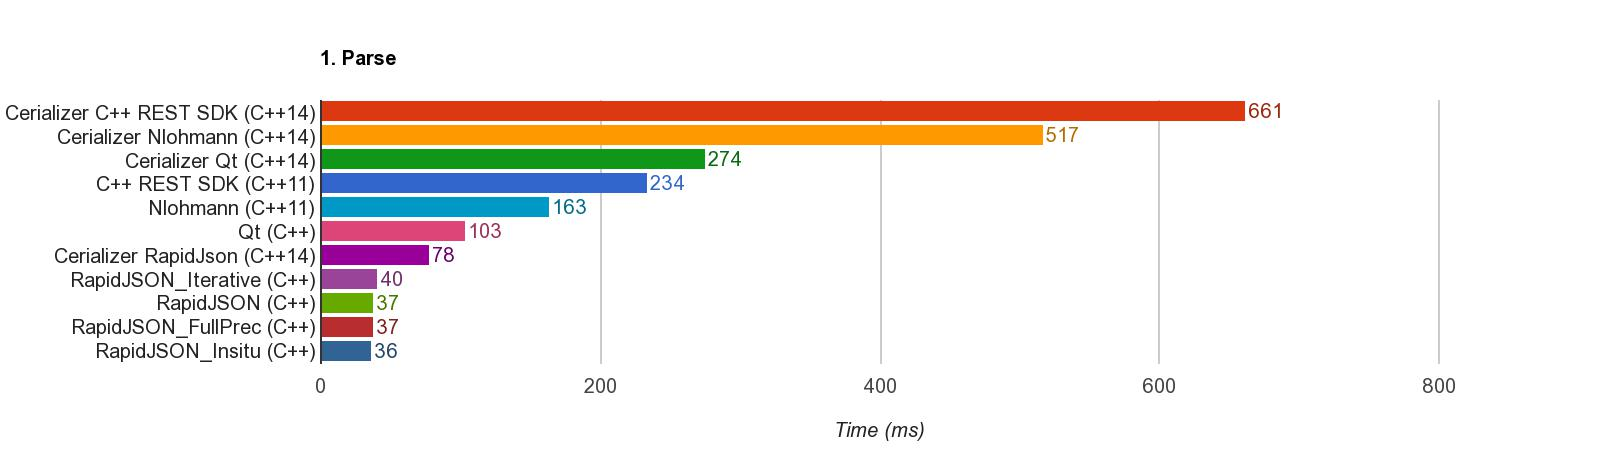
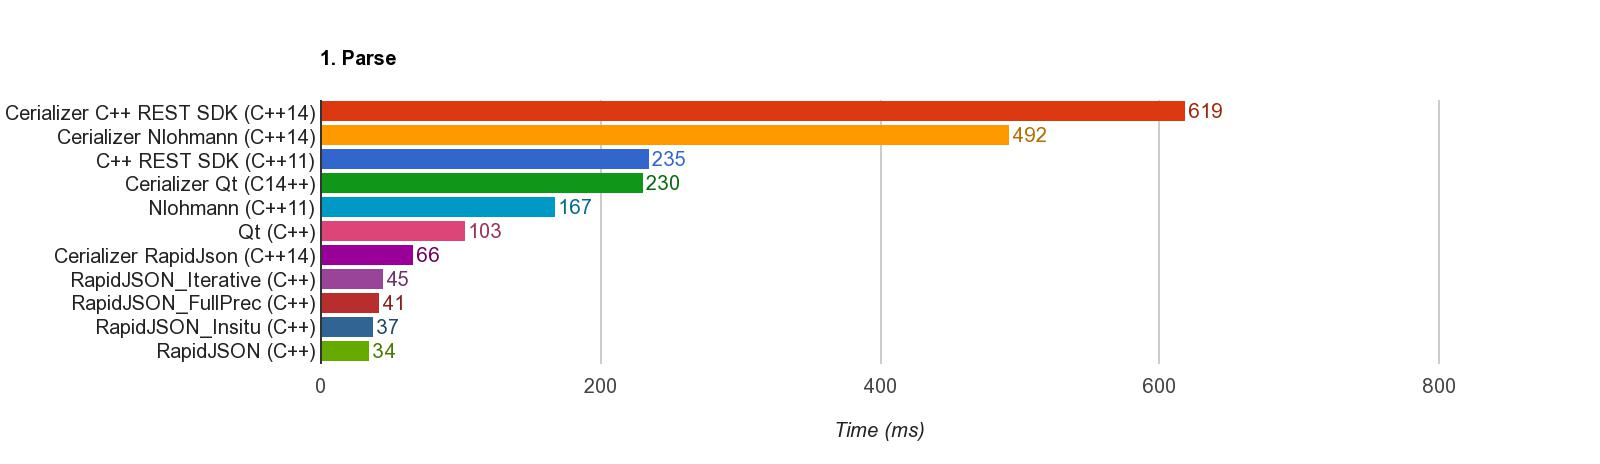
Update benchmarks

diff --git a/sample/performance_Corei7-8750H@2.20GHz_win32_vc2017.html b/sample/performance_Corei7-8750H@2.20GHz_win32_vc2017.html
@@ -413,92 +413,92 @@ body { padding-top: 70px; }
 <h2>Source CSV</h2>
 <textarea id="textInput" class="form-control" rows="5" readonly>
 Type,Library,Filename,Time (ms),Memory (byte),MemoryPeak (byte),AllocCount,FileSize (byte)
-1. Parse,Cerializer C++ REST SDK (C++14),big.json,53.205200,534860,534896,53132,0
-1. Parse,Cerializer C++ REST SDK (C++14),bigger.json,608.280900,5348736,5787240,531322,0
-2. Stringify,Cerializer C++ REST SDK (C++14),big.json,48.162400,1201663,2250274,82848,0
-2. Stringify,Cerializer C++ REST SDK (C++14),bigger.json,552.694400,12016111,20404754,828321,0
-1. Parse,Cerializer Nlohmann (C++14),big.json,39.343800,534860,3098104,253114,0
-1. Parse,Cerializer Nlohmann (C++14),bigger.json,477.169500,5348736,32973968,3082874,0
-2. Stringify,Cerializer Nlohmann (C++14),big.json,45.349800,652543,4110218,250550,0
-2. Stringify,Cerializer Nlohmann (C++14),bigger.json,514.564300,6524911,39004818,3057073,0
-1. Parse,Cerializer Qt (C++14),big.json,24.362600,534860,534896,18812,0
-1. Parse,Cerializer Qt (C++14),bigger.json,249.946600,5348736,5787240,188122,0
-2. Stringify,Cerializer Qt (C++14),big.json,37.901900,8,82088,14191,0
-2. Stringify,Cerializer Qt (C++14),bigger.json,390.636100,8,82088,141901,0
-1. Parse,Cerializer RapidJson (C++14),big.json,6.592700,534860,1845878,19171,0
-1. Parse,Cerializer RapidJson (C++14),bigger.json,71.002700,5348736,18634670,191627,0
-2. Stringify,Cerializer RapidJson (C++14),big.json,6.084900,1566319,3561318,14218,0
-2. Stringify,Cerializer RapidJson (C++14),bigger.json,72.817600,17777119,39596590,141934,0
-1. Parse,C++ REST SDK (C++11),big.json,19.859000,8,8,1,0
-1. Parse,C++ REST SDK (C++11),bigger.json,213.934300,8,8,1,0
-2. Stringify,C++ REST SDK (C++11),big.json,6.199100,657823,1706434,18,0
-2. Stringify,C++ REST SDK (C++11),bigger.json,70.928200,6577711,14966354,21,0
-4. Statistics,C++ REST SDK (C++11),big.json,0.269700,0,0,0,0
-4. Statistics,C++ REST SDK (C++11),bigger.json,5.194100,0,0,0,0
-1. Parse,Nlohmann (C++11),big.json,14.147300,2477728,2477728,70983,0
-1. Parse,Nlohmann (C++11),bigger.json,149.258200,24777688,24777688,709833,0
-2. Stringify,Nlohmann (C++11),big.json,16.786800,652543,1701154,648,0
-2. Stringify,Nlohmann (C++11),bigger.json,173.712600,6524911,14913554,6321,0
-3. Prettify,Nlohmann (C++11),big.json,21.683300,1566319,3663506,36949,0
-3. Prettify,Nlohmann (C++11),bigger.json,243.479700,17777119,51331586,507923,0
-4. Statistics,Nlohmann (C++11),big.json,1.003300,0,32,630,0
-4. Statistics,Nlohmann (C++11),bigger.json,13.208000,0,32,6300,0
-1. Parse,Qt (C++),big.json,8.915600,8,8,1,0
-1. Parse,Qt (C++),bigger.json,93.983800,8,8,1,0
-2. Stringify,Qt (C++),big.json,24.587800,8,8,1,0
-2. Stringify,Qt (C++),bigger.json,250.031300,8,8,1,0
-3. Prettify,Qt (C++),big.json,26.676600,8,8,1,0
-3. Prettify,Qt (C++),bigger.json,278.995900,8,8,1,0
-4. Statistics,Qt (C++),big.json,4.110200,0,0,0,0
-4. Statistics,Qt (C++),bigger.json,42.903300,0,0,0,0
-1. Parse,RapidJSON_FullPrec (C++),big.json,3.263200,1311054,1314767,30,0
-1. Parse,RapidJSON_FullPrec (C++),bigger.json,33.468600,12847502,12851215,206,0
-2. Stringify,RapidJSON_FullPrec (C++),big.json,1.939400,851380,851637,25,0
-2. Stringify,RapidJSON_FullPrec (C++),bigger.json,24.334300,9697457,9697714,31,0
-3. Prettify,RapidJSON_FullPrec (C++),big.json,3.575600,1915570,1915827,27,0
-3. Prettify,RapidJSON_FullPrec (C++),bigger.json,45.619700,21819242,21819499,33,0
-4. Statistics,RapidJSON_FullPrec (C++),big.json,0.178900,0,0,0,0
-4. Statistics,RapidJSON_FullPrec (C++),bigger.json,2.132600,0,0,0,0
-5. Sax Round-trip,RapidJSON_FullPrec (C++),big.json,4.639800,851380,851894,27,0
-5. Sax Round-trip,RapidJSON_FullPrec (C++),bigger.json,52.159400,9697457,9697971,33,0
-6. SaxStatistics,RapidJSON_FullPrec (C++),big.json,2.661200,0,257,2,0
-6. SaxStatistics,RapidJSON_FullPrec (C++),bigger.json,29.968200,0,257,2,0
-1. Parse,RapidJSON_Insitu (C++),big.json,3.117000,2799068,2802524,27,0
-1. Parse,RapidJSON_Insitu (C++),bigger.json,32.712800,29973303,29976759,187,0
-2. Stringify,RapidJSON_Insitu (C++),big.json,1.937300,851380,851637,25,0
-2. Stringify,RapidJSON_Insitu (C++),bigger.json,24.638900,9697457,9697714,31,0
-3. Prettify,RapidJSON_Insitu (C++),big.json,3.722500,1915570,1915827,27,0
-3. Prettify,RapidJSON_Insitu (C++),bigger.json,45.703600,21819242,21819499,33,0
-4. Statistics,RapidJSON_Insitu (C++),big.json,0.181900,0,0,0,0
-4. Statistics,RapidJSON_Insitu (C++),bigger.json,2.061800,0,0,0,0
-5. Sax Round-trip,RapidJSON_Insitu (C++),big.json,4.768200,851380,2470767,27,0
-5. Sax Round-trip,RapidJSON_Insitu (C++),bigger.json,54.235400,9697457,28003399,33,0
-6. SaxStatistics,RapidJSON_Insitu (C++),big.json,2.887200,0,1619130,2,0
-6. SaxStatistics,RapidJSON_Insitu (C++),bigger.json,31.872100,0,18305685,2,0
-1. Parse,RapidJSON_Iterative (C++),big.json,3.355200,1311054,1314767,30,0
-1. Parse,RapidJSON_Iterative (C++),bigger.json,36.557300,12847502,12851215,206,0
-2. Stringify,RapidJSON_Iterative (C++),big.json,1.881200,851380,851637,25,0
-2. Stringify,RapidJSON_Iterative (C++),bigger.json,24.238200,9697457,9697714,31,0
-3. Prettify,RapidJSON_Iterative (C++),big.json,3.657400,1915570,1915827,27,0
-3. Prettify,RapidJSON_Iterative (C++),bigger.json,45.626500,21819242,21819499,33,0
-4. Statistics,RapidJSON_Iterative (C++),big.json,0.174000,0,0,0,0
-4. Statistics,RapidJSON_Iterative (C++),bigger.json,2.173700,0,0,0,0
-5. Sax Round-trip,RapidJSON_Iterative (C++),big.json,4.895300,851380,851894,27,0
-5. Sax Round-trip,RapidJSON_Iterative (C++),bigger.json,55.433400,9697457,9697971,33,0
-6. SaxStatistics,RapidJSON_Iterative (C++),big.json,3.060800,0,257,2,0
-6. SaxStatistics,RapidJSON_Iterative (C++),bigger.json,33.437400,0,257,2,0
-1. Parse,RapidJSON (C++),big.json,3.139400,1311054,1314767,30,0
-1. Parse,RapidJSON (C++),bigger.json,34.116000,12847502,12851215,206,0
-2. Stringify,RapidJSON (C++),big.json,1.928400,851380,851637,25,0
-2. Stringify,RapidJSON (C++),bigger.json,24.341800,9697457,9697714,31,0
-3. Prettify,RapidJSON (C++),big.json,3.639000,1915570,1915827,27,0
-3. Prettify,RapidJSON (C++),bigger.json,45.341000,21819242,21819499,33,0
-4. Statistics,RapidJSON (C++),big.json,0.174800,0,0,0,0
-4. Statistics,RapidJSON (C++),bigger.json,2.220000,0,0,0,0
-5. Sax Round-trip,RapidJSON (C++),big.json,4.368300,851380,851894,27,0
-5. Sax Round-trip,RapidJSON (C++),bigger.json,50.037000,9697457,9697971,33,0
-6. SaxStatistics,RapidJSON (C++),big.json,2.471100,0,257,2,0
-6. SaxStatistics,RapidJSON (C++),bigger.json,26.584200,0,257,2,0
+1. Parse,Cerializer C++ REST SDK (C++14),big.json,48.615100,534860,534896,35972,0
+1. Parse,Cerializer C++ REST SDK (C++14),bigger.json,569.991500,5348736,5787240,359722,0
+2. Stringify,Cerializer C++ REST SDK (C++14),big.json,47.104900,1201663,2250274,82848,0
+2. Stringify,Cerializer C++ REST SDK (C++14),bigger.json,540.292700,12016111,20404754,828321,0
+1. Parse,Cerializer Nlohmann (C++14),big.json,37.188300,534860,3098104,252484,0
+1. Parse,Cerializer Nlohmann (C++14),bigger.json,454.575000,5348736,32973968,3076574,0
+2. Stringify,Cerializer Nlohmann (C++14),big.json,45.198900,652543,4110218,250550,0
+2. Stringify,Cerializer Nlohmann (C++14),bigger.json,519.948400,6524911,39004818,3057073,0
+1. Parse,Cerializer Qt (C14++),big.json,20.452900,534860,534896,18812,0
+1. Parse,Cerializer Qt (C14++),bigger.json,209.876400,5348736,5787240,188122,0
+2. Stringify,Cerializer Qt (C14++),big.json,37.359300,8,82088,14191,0
+2. Stringify,Cerializer Qt (C14++),bigger.json,383.143000,8,82088,141901,0
+1. Parse,Cerializer RapidJson (C++14),big.json,5.617900,534860,1845878,19171,0
+1. Parse,Cerializer RapidJson (C++14),bigger.json,60.491700,5348736,18634670,191627,0
+2. Stringify,Cerializer RapidJson (C++14),big.json,6.087100,1566319,3561318,14218,0
+2. Stringify,Cerializer RapidJson (C++14),bigger.json,73.852800,17777119,39596590,141934,0
+1. Parse,C++ REST SDK (C++11),big.json,19.996200,8,8,1,0
+1. Parse,C++ REST SDK (C++11),bigger.json,215.017400,8,8,1,0
+2. Stringify,C++ REST SDK (C++11),big.json,6.112500,657823,1706434,18,0
+2. Stringify,C++ REST SDK (C++11),bigger.json,71.601000,6577711,14966354,21,0
+4. Statistics,C++ REST SDK (C++11),big.json,0.268800,0,0,0,0
+4. Statistics,C++ REST SDK (C++11),bigger.json,7.984500,0,0,0,0
+1. Parse,Nlohmann (C++11),big.json,14.656700,2477728,2477728,70983,0
+1. Parse,Nlohmann (C++11),bigger.json,152.449100,24777688,24777688,709833,0
+2. Stringify,Nlohmann (C++11),big.json,17.176800,652543,1701154,648,0
+2. Stringify,Nlohmann (C++11),bigger.json,177.763000,6524911,14913554,6321,0
+3. Prettify,Nlohmann (C++11),big.json,22.423500,1566319,3663506,36949,0
+3. Prettify,Nlohmann (C++11),bigger.json,251.675000,17777119,51331586,507923,0
+4. Statistics,Nlohmann (C++11),big.json,1.011600,0,32,630,0
+4. Statistics,Nlohmann (C++11),bigger.json,13.511400,0,32,6300,0
+1. Parse,Qt (C++),big.json,8.973500,8,8,1,0
+1. Parse,Qt (C++),bigger.json,94.231300,8,8,1,0
+2. Stringify,Qt (C++),big.json,24.509600,8,8,1,0
+2. Stringify,Qt (C++),bigger.json,246.114200,8,8,1,0
+3. Prettify,Qt (C++),big.json,26.668100,8,8,1,0
+3. Prettify,Qt (C++),bigger.json,274.404300,8,8,1,0
+4. Statistics,Qt (C++),big.json,4.058100,0,0,0,0
+4. Statistics,Qt (C++),bigger.json,42.871700,0,0,0,0
+1. Parse,RapidJSON_FullPrec (C++),big.json,3.547400,1311054,1314767,30,0
+1. Parse,RapidJSON_FullPrec (C++),bigger.json,37.823400,12847502,12851215,206,0
+2. Stringify,RapidJSON_FullPrec (C++),big.json,1.940300,851380,851637,25,0
+2. Stringify,RapidJSON_FullPrec (C++),bigger.json,24.645600,9697457,9697714,31,0
+3. Prettify,RapidJSON_FullPrec (C++),big.json,3.648900,1915570,1915827,27,0
+3. Prettify,RapidJSON_FullPrec (C++),bigger.json,45.791300,21819242,21819499,33,0
+4. Statistics,RapidJSON_FullPrec (C++),big.json,0.179300,0,0,0,0
+4. Statistics,RapidJSON_FullPrec (C++),bigger.json,3.661800,0,0,0,0
+5. Sax Round-trip,RapidJSON_FullPrec (C++),big.json,4.971900,851380,851894,27,0
+5. Sax Round-trip,RapidJSON_FullPrec (C++),bigger.json,57.008600,9697457,9697971,33,0
+6. SaxStatistics,RapidJSON_FullPrec (C++),big.json,2.956100,0,257,2,0
+6. SaxStatistics,RapidJSON_FullPrec (C++),bigger.json,31.783900,0,257,2,0
+1. Parse,RapidJSON_Insitu (C++),big.json,3.206200,2799068,2802524,27,0
+1. Parse,RapidJSON_Insitu (C++),bigger.json,33.344000,29973303,29976759,187,0
+2. Stringify,RapidJSON_Insitu (C++),big.json,1.965000,851380,851637,25,0
+2. Stringify,RapidJSON_Insitu (C++),bigger.json,24.832900,9697457,9697714,31,0
+3. Prettify,RapidJSON_Insitu (C++),big.json,3.707900,1915570,1915827,27,0
+3. Prettify,RapidJSON_Insitu (C++),bigger.json,46.025600,21819242,21819499,33,0
+4. Statistics,RapidJSON_Insitu (C++),big.json,0.181400,0,0,0,0
+4. Statistics,RapidJSON_Insitu (C++),bigger.json,2.297200,0,0,0,0
+5. Sax Round-trip,RapidJSON_Insitu (C++),big.json,4.927500,851380,2470767,27,0
+5. Sax Round-trip,RapidJSON_Insitu (C++),bigger.json,56.881900,9697457,28003399,33,0
+6. SaxStatistics,RapidJSON_Insitu (C++),big.json,2.934400,0,1619130,2,0
+6. SaxStatistics,RapidJSON_Insitu (C++),bigger.json,32.252000,0,18305685,2,0
+1. Parse,RapidJSON_Iterative (C++),big.json,3.841800,1311054,1314767,30,0
+1. Parse,RapidJSON_Iterative (C++),bigger.json,41.145900,12847502,12851215,206,0
+2. Stringify,RapidJSON_Iterative (C++),big.json,1.928700,851380,851637,25,0
+2. Stringify,RapidJSON_Iterative (C++),bigger.json,24.419100,9697457,9697714,31,0
+3. Prettify,RapidJSON_Iterative (C++),big.json,3.646400,1915570,1915827,27,0
+3. Prettify,RapidJSON_Iterative (C++),bigger.json,45.537900,21819242,21819499,33,0
+4. Statistics,RapidJSON_Iterative (C++),big.json,0.178800,0,0,0,0
+4. Statistics,RapidJSON_Iterative (C++),bigger.json,2.183000,0,0,0,0
+5. Sax Round-trip,RapidJSON_Iterative (C++),big.json,5.184700,851380,851894,27,0
+5. Sax Round-trip,RapidJSON_Iterative (C++),bigger.json,59.688700,9697457,9697971,33,0
+6. SaxStatistics,RapidJSON_Iterative (C++),big.json,3.355100,0,257,2,0
+6. SaxStatistics,RapidJSON_Iterative (C++),bigger.json,37.004500,0,257,2,0
+1. Parse,RapidJSON (C++),big.json,2.929900,1311054,1314767,30,0
+1. Parse,RapidJSON (C++),bigger.json,31.240100,12847502,12851215,206,0
+2. Stringify,RapidJSON (C++),big.json,1.931600,851380,851637,25,0
+2. Stringify,RapidJSON (C++),bigger.json,24.410600,9697457,9697714,31,0
+3. Prettify,RapidJSON (C++),big.json,3.661100,1915570,1915827,27,0
+3. Prettify,RapidJSON (C++),bigger.json,45.524100,21819242,21819499,33,0
+4. Statistics,RapidJSON (C++),big.json,0.179200,0,0,0,0
+4. Statistics,RapidJSON (C++),bigger.json,2.372600,0,0,0,0
+5. Sax Round-trip,RapidJSON (C++),big.json,4.768000,851380,851894,27,0
+5. Sax Round-trip,RapidJSON (C++),bigger.json,54.408900,9697457,9697971,33,0
+6. SaxStatistics,RapidJSON (C++),big.json,2.834800,0,257,2,0
+6. SaxStatistics,RapidJSON (C++),bigger.json,31.256800,0,257,2,0
 </textarea>
 </div>
 <div class="row" id="downloadDD" style="display: none">
